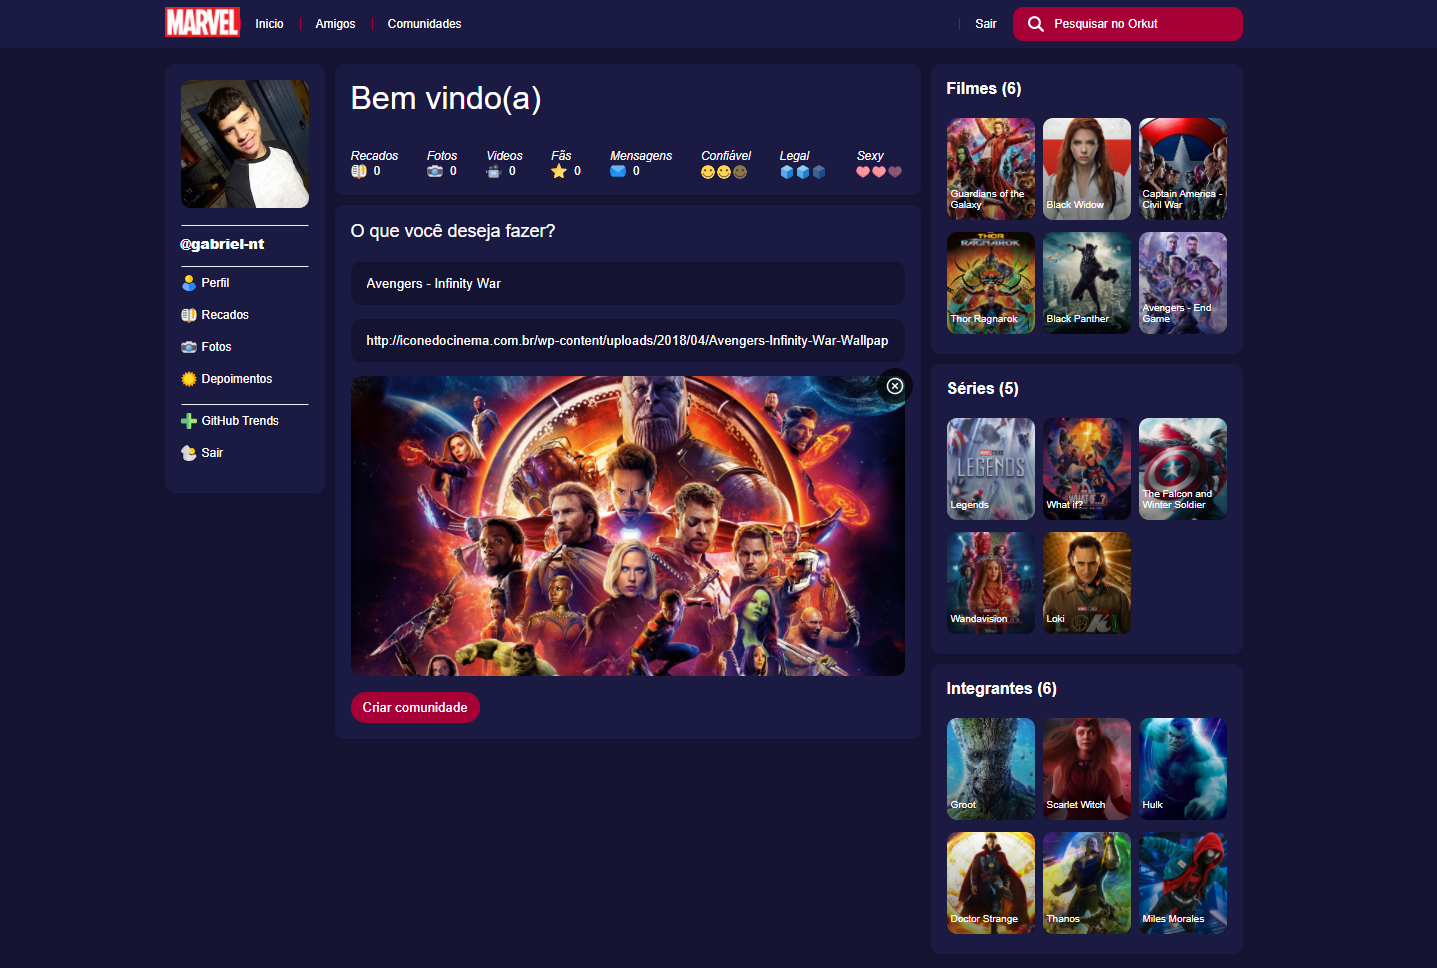
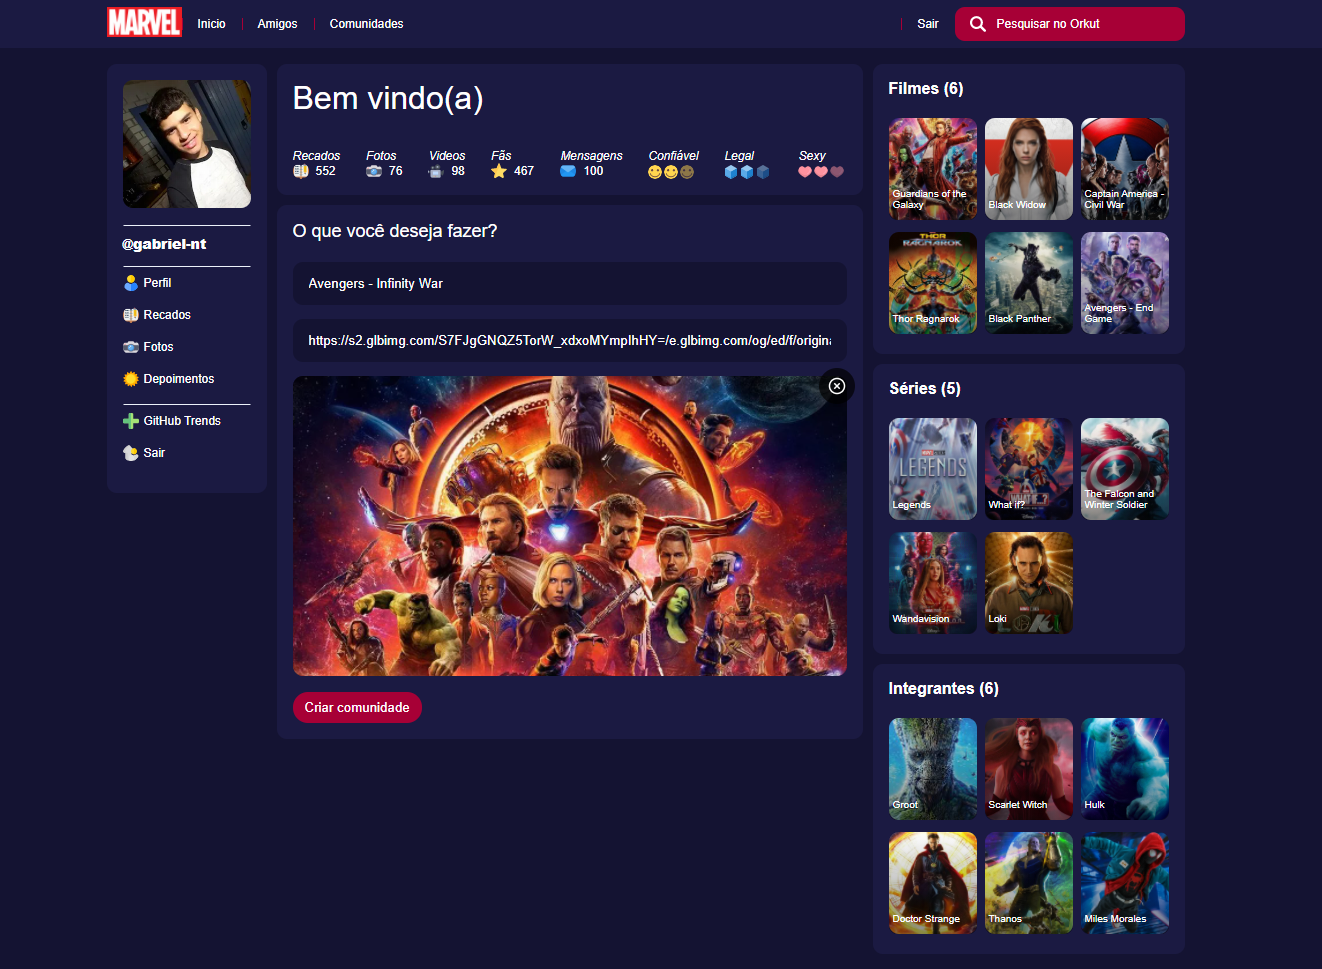
Thumbnail added

diff --git a/src/components/OrkutNostalgicIconSet/index.tsx b/src/components/OrkutNostalgicIconSet/index.tsx
@@ -4,12 +4,12 @@ export default function OrkutNostalgicIconSet(props) {
   return (
     <Container>
       {[
-        { name: 'Recados', slug: 'recados', icon: 'book' },
-        { name: 'Fotos', slug: 'fotos', icon: 'camera' },
-        { name: 'Videos', slug: 'videos', icon: 'video-camera' },
-        { name: 'Fãs', slug: 'fas', icon: 'star' },
-        { name: 'Mensagens', slug: 'mensagens', icon: 'email' },
-      ].map(({ name, slug, icon }) => (
+        { name: 'Recados', slug: 'recados', icon: 'book', count: 552 },
+        { name: 'Fotos', slug: 'fotos', icon: 'camera', count: 76 },
+        { name: 'Videos', slug: 'videos', icon: 'video-camera', count: 98 },
+        { name: 'Fãs', slug: 'fas', icon: 'star', count: 467 },
+        { name: 'Mensagens', slug: 'mensagens', icon: 'email', count: 100 },
+      ].map(({ name, slug, icon, count }) => (
         <li key={`orkut__icon_set__${slug}`}>
           <span
             style={{ gridArea: 'title' }}
@@ -26,7 +26,7 @@ export default function OrkutNostalgicIconSet(props) {
               className="OrkutNostalgicIconSet__iconSample"
               src={`https://alurakut.vercel.app/icons/${icon}.svg`}
             />
-            {props[slug] ? props[slug] : 0}
+            {count}
           </span>
         </li>
       ))}

diff --git a/src/pages/_document.tsx b/src/pages/_document.tsx
@@ -1,4 +1,10 @@
-import Document, { DocumentContext } from 'next/document';
+import Document, {
+  DocumentContext,
+  Html,
+  Head,
+  Main,
+  NextScript,
+} from 'next/document';
 import { ServerStyleSheet } from 'styled-components';
 
 export default class MyDocument extends Document {
@@ -25,5 +31,21 @@ export default class MyDocument extends Document {
     } finally {
       sheet.seal();
     }
+  }
+
+  render() {
+    return (
+      <Html>
+        <Head>
+          <link rel="icon" href="/favicon.ico" />
+          <title>Alurakut</title>
+        </Head>
+
+        <body>
+          <Main />
+          <NextScript />
+        </body>
+      </Html>
+    );
   }
 }

diff --git a/src/components/ProfileRelations/styles.ts b/src/components/ProfileRelations/styles.ts
@@ -8,6 +8,7 @@ export const ProfileRelationsBox = styled(Box)`
     grid-template-columns: 1fr 1fr 1fr;
     max-height: 220px;
     list-style: none;
+    overflow: hidden;
   }
 
   img {
